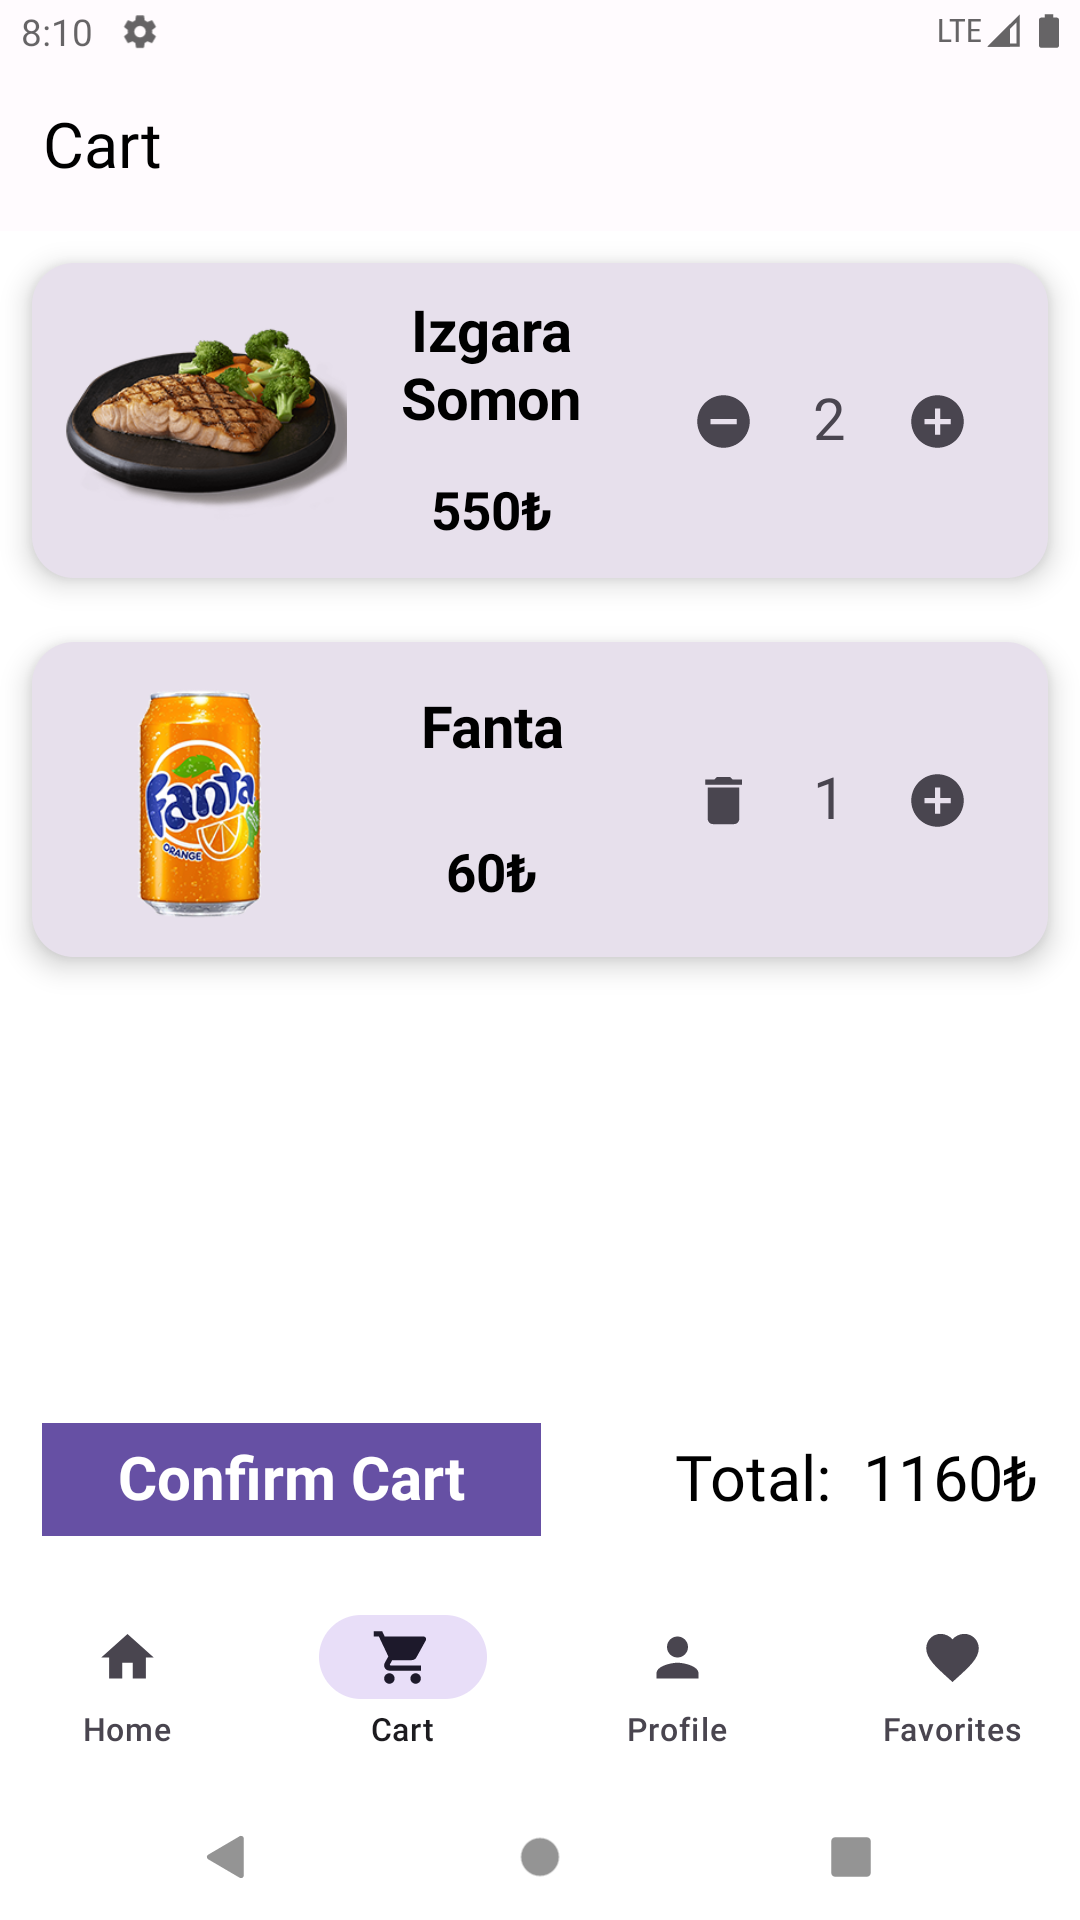
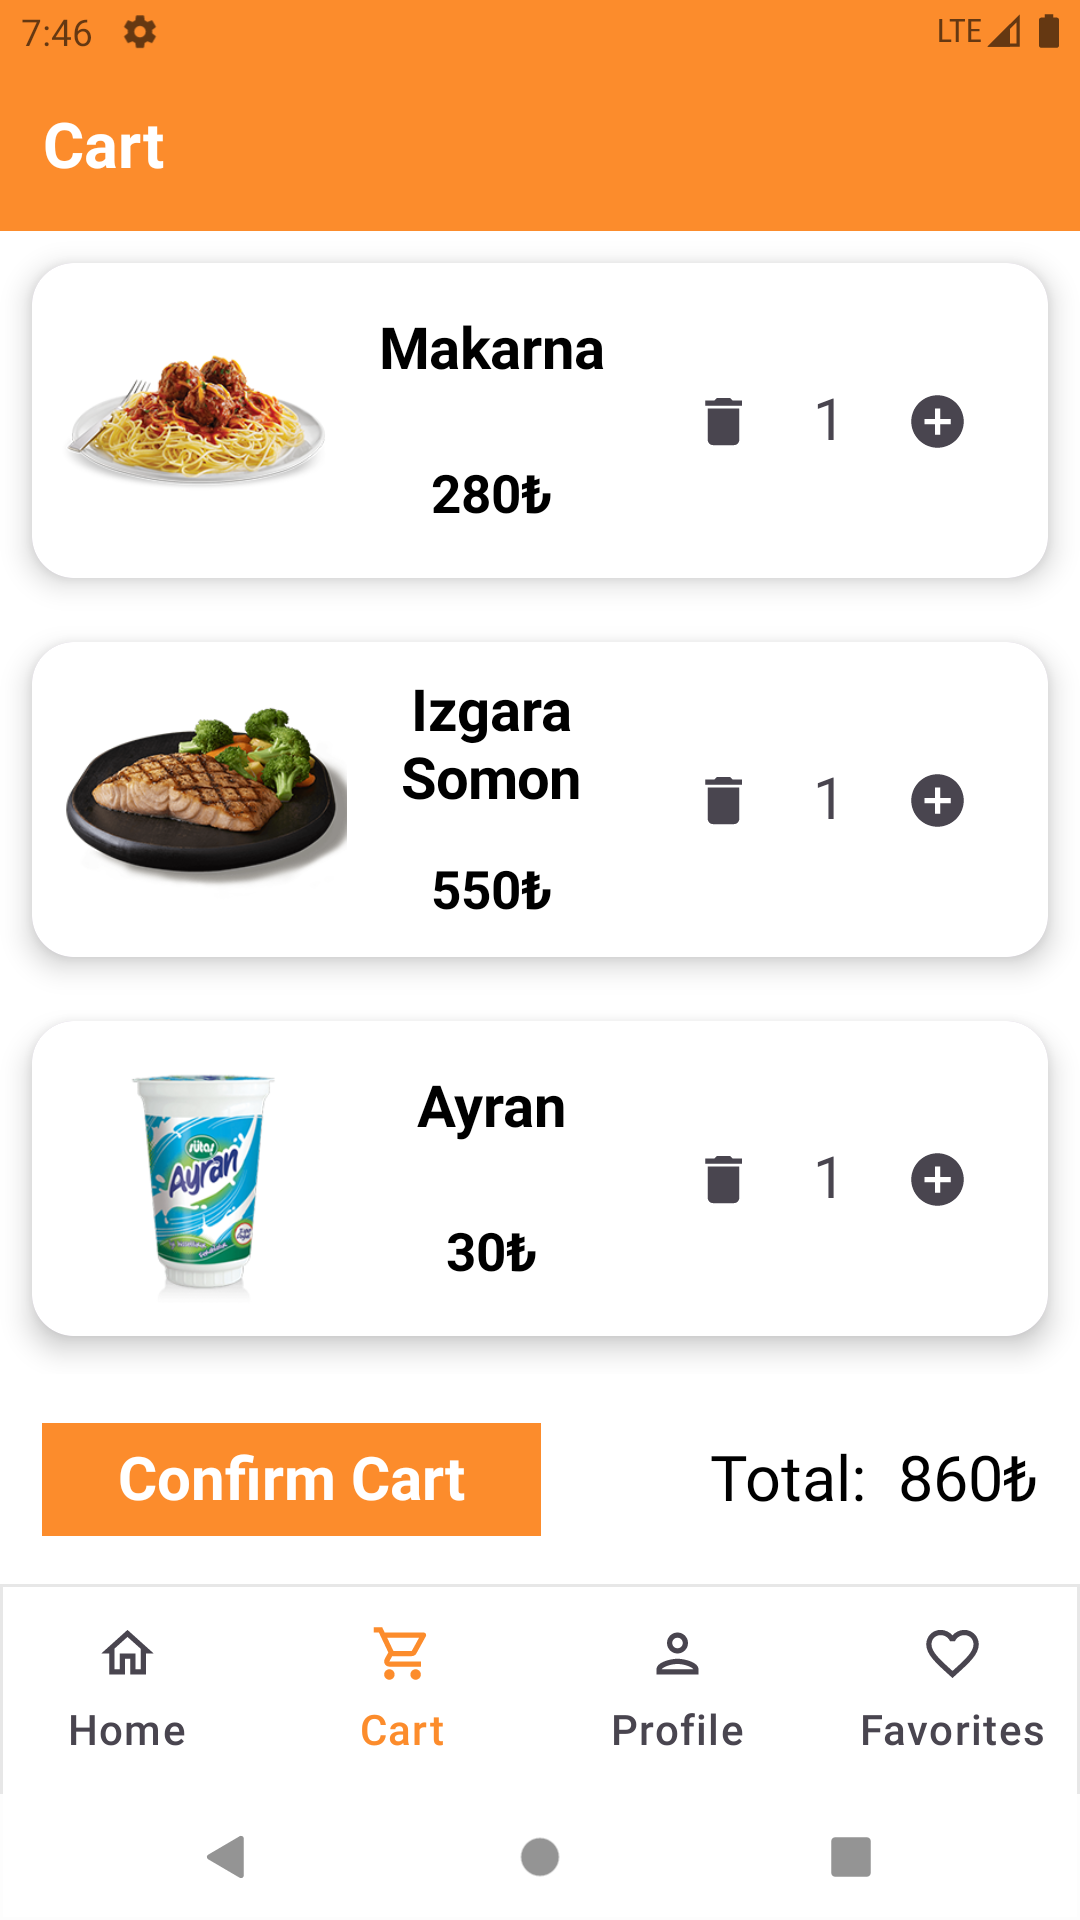
Update README

diff --git a/app/src/main/java/com/example/fooddelivery/MainActivity.kt b/app/src/main/java/com/example/fooddelivery/MainActivity.kt
@@ -5,14 +5,17 @@ import android.util.Log
 import androidx.activity.ComponentActivity
 import androidx.activity.compose.setContent
 import androidx.activity.enableEdgeToEdge
+import androidx.compose.foundation.BorderStroke
 import androidx.compose.foundation.Image
 import androidx.compose.foundation.background
+import androidx.compose.foundation.border
 import androidx.compose.foundation.layout.WindowInsets
 import androidx.compose.foundation.layout.asPaddingValues
 import androidx.compose.foundation.layout.fillMaxSize
 import androidx.compose.foundation.layout.navigationBars
 import androidx.compose.foundation.layout.padding
 import androidx.compose.foundation.layout.size
+import androidx.compose.foundation.shape.CutCornerShape
 import androidx.compose.material.BottomNavigation
 import androidx.compose.material.BottomNavigationItem
 import androidx.compose.material.icons.Icons
@@ -20,6 +23,11 @@ import androidx.compose.material.icons.filled.Favorite
 import androidx.compose.material.icons.filled.Home
 import androidx.compose.material.icons.filled.Person
 import androidx.compose.material.icons.filled.ShoppingCart
+import androidx.compose.material.icons.outlined.Favorite
+import androidx.compose.material.icons.outlined.FavoriteBorder
+import androidx.compose.material.icons.outlined.Home
+import androidx.compose.material.icons.outlined.Person
+import androidx.compose.material.icons.outlined.ShoppingCart
 import androidx.compose.material3.Icon
 import androidx.compose.material3.NavigationBar
 import androidx.compose.material3.NavigationBarItem
@@ -83,10 +91,19 @@ fun BottomBar(navController: NavController) {
         Screens.Favorites,
     )
     NavigationBar(
+        modifier = Modifier.border(
+            BorderStroke(1.dp, Color.Gray.copy(alpha = 0.2f)), // Şeffaf bir gri sınır
+            shape = CutCornerShape(
+                topStart = 0.dp,
+                topEnd = 0.dp,
+                bottomEnd = 0.dp,
+                bottomStart = 0.dp
+            ) // Sadece üst kenarda sınır
+        ),
         containerColor = Color.White,
         contentColor = Color.Black,
 
-    ) {
+        ) {
         val navBackStackEntry by navController.currentBackStackEntryAsState()
         val currentDestination = navBackStackEntry?.destination
 
@@ -104,20 +121,29 @@ fun BottomBar(navController: NavController) {
                 },
                 icon = {
                     when (item.label) {
-                        "Home" -> Icon(Icons.Default.Home, contentDescription = "Home")
-                        "Favorites" -> Icon(Icons.Default.Favorite, contentDescription = "Favorites")
-                        "Cart" -> Icon(Icons.Default.ShoppingCart, contentDescription = "Cart")
-                        "Profile" -> Icon(Icons.Default.Person, contentDescription = "Profile")
+                        "Home" -> Icon(Icons.Outlined.Home, contentDescription = "Home")
+                        "Favorites" -> Icon(
+                            Icons.Outlined.FavoriteBorder,
+                            contentDescription = "Favorites"
+                        )
+
+                        "Cart" -> Icon(Icons.Outlined.ShoppingCart, contentDescription = "Cart")
+                        "Profile" -> Icon(Icons.Outlined.Person, contentDescription = "Profile")
                     }
-                       }
-                ,
-                label = { Text(text = item.label, fontWeight = FontWeight.Medium, fontSize = 16.sp) },
+                },
+                label = {
+                    Text(
+                        text = item.label,
+                        fontWeight = FontWeight.Medium,
+                        fontSize = 16.sp
+                    )
+                },
                 colors = NavigationBarItemDefaults.colors(
                     selectedIconColor = primaryColor,
                     selectedTextColor = primaryColor,
                     indicatorColor = Color.Transparent
                 )
-                )
+            )
         }
 
     }

diff --git a/app/src/main/java/com/example/fooddelivery/ui/presentation/Cart/CartScreen.kt b/app/src/main/java/com/example/fooddelivery/ui/presentation/Cart/CartScreen.kt
@@ -151,10 +151,11 @@ fun CartScreen(navController: NavHostController) {
                 // Confirm Cart Button
                 Button(
                     modifier = Modifier
-                        .defaultMinSize(minWidth = 200.dp) // Butonun minimum genişliği sabit
-                        .padding(end = 10.dp), // Sağdan biraz boşluk bırakıyoruz
+                        .defaultMinSize(minWidth = 200.dp)
+                        .padding(end = 10.dp),
                     onClick = { /* Confirm Cart action */ },
-                    shape = RectangleShape
+                    shape = RectangleShape,
+                    colors = ButtonDefaults.buttonColors(containerColor = primaryColor)
                 ) {
                     Text(
                         text = "Confirm Cart",
@@ -197,6 +198,7 @@ fun CartItem(
         Row(
             modifier = Modifier
                 .fillMaxWidth()
+                .background(Color.White)
                 .height(120.dp)
                 .padding(vertical = 4.dp, horizontal = 10.dp)
         ) {
